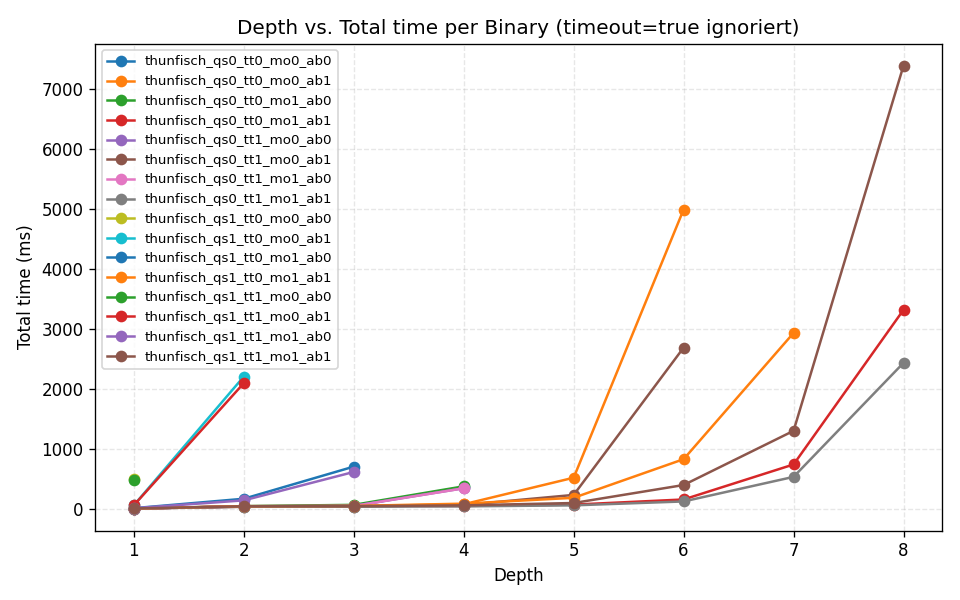
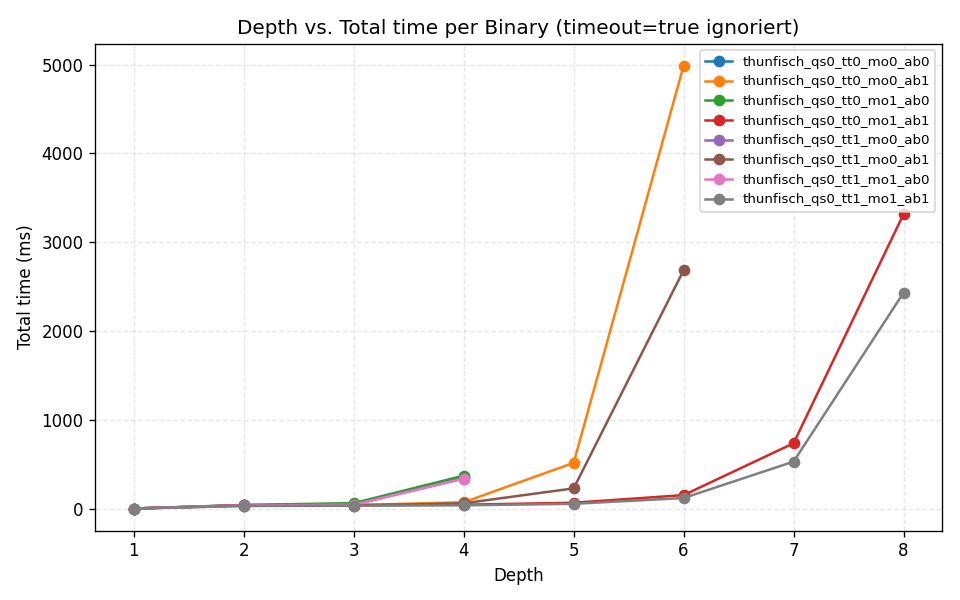
added plotly plotter

diff --git a/python-debugging/plot_depth_time.html b/python-debugging/plot_depth_time.html
@@ -1,0 +1,7 @@
+<html>
+<head><meta charset="utf-8" /></head>
+<body>
+    <div>                        <script type="text/javascript">window.PlotlyConfig = {MathJaxConfig: 'local'};</script>
+        <script charset="utf-8" src="https://cdn.plot.ly/plotly-3.1.1.min.js" integrity="sha256-HUEFyfiTnZJxCxur99FjbKYTvKSzwDaD3/x5TqHpFu4=" crossorigin="anonymous"></script>                <div id="6c96f560-fa58-4c0f-a3f3-13fef1c8d512" class="plotly-graph-div" style="height:450px; width:100%;"></div>            <script type="text/javascript">                window.PLOTLYENV=window.PLOTLYENV || {};                                if (document.getElementById("6c96f560-fa58-4c0f-a3f3-13fef1c8d512")) {                    Plotly.newPlot(                        "6c96f560-fa58-4c0f-a3f3-13fef1c8d512",                        [{"hovertemplate":"depth=%{x}\u003cbr\u003etime=%{y} ms\u003cextra\u003ethunfisch_qs0_tt0_mo0_ab0\u003c\u002fextra\u003e","line":{"width":2},"marker":{"size":6},"mode":"lines+markers","name":"thunfisch_qs0_tt0_mo0_ab0","x":[1,2,3,4],"y":[0,36,43,358],"type":"scatter"},{"hovertemplate":"depth=%{x}\u003cbr\u003etime=%{y} ms\u003cextra\u003ethunfisch_qs0_tt0_mo0_ab1\u003c\u002fextra\u003e","line":{"width":2},"marker":{"size":6},"mode":"lines+markers","name":"thunfisch_qs0_tt0_mo0_ab1","x":[1,2,3,4,5,6],"y":[0,35,38,71,514,4988],"type":"scatter"},{"hovertemplate":"depth=%{x}\u003cbr\u003etime=%{y} ms\u003cextra\u003ethunfisch_qs0_tt0_mo1_ab0\u003c\u002fextra\u003e","line":{"width":2},"marker":{"size":6},"mode":"lines+markers","name":"thunfisch_qs0_tt0_mo1_ab0","x":[1,2,3,4],"y":[0,40,61,370],"type":"scatter"},{"hovertemplate":"depth=%{x}\u003cbr\u003etime=%{y} ms\u003cextra\u003ethunfisch_qs0_tt0_mo1_ab1\u003c\u002fextra\u003e","line":{"width":2},"marker":{"size":6},"mode":"lines+markers","name":"thunfisch_qs0_tt0_mo1_ab1","x":[1,2,3,4,5,6,7,8],"y":[0,39,40,43,65,151,735,3315],"type":"scatter"},{"hovertemplate":"depth=%{x}\u003cbr\u003etime=%{y} ms\u003cextra\u003ethunfisch_qs0_tt1_mo0_ab0\u003c\u002fextra\u003e","line":{"width":2},"marker":{"size":6},"mode":"lines+markers","name":"thunfisch_qs0_tt1_mo0_ab0","x":[1,2,3,4],"y":[0,37,45,338],"type":"scatter"},{"hovertemplate":"depth=%{x}\u003cbr\u003etime=%{y} ms\u003cextra\u003ethunfisch_qs0_tt1_mo0_ab1\u003c\u002fextra\u003e","line":{"width":2},"marker":{"size":6},"mode":"lines+markers","name":"thunfisch_qs0_tt1_mo0_ab1","x":[1,2,3,4,5,6],"y":[0,29,31,59,227,2684],"type":"scatter"},{"hovertemplate":"depth=%{x}\u003cbr\u003etime=%{y} ms\u003cextra\u003ethunfisch_qs0_tt1_mo1_ab0\u003c\u002fextra\u003e","line":{"width":2},"marker":{"size":6},"mode":"lines+markers","name":"thunfisch_qs0_tt1_mo1_ab0","x":[1,2,3,4],"y":[0,34,42,338],"type":"scatter"},{"hovertemplate":"depth=%{x}\u003cbr\u003etime=%{y} ms\u003cextra\u003ethunfisch_qs0_tt1_mo1_ab1\u003c\u002fextra\u003e","line":{"width":2},"marker":{"size":6},"mode":"lines+markers","name":"thunfisch_qs0_tt1_mo1_ab1","x":[1,2,3,4,5,6,7,8],"y":[0,31,32,36,53,118,528,2430],"type":"scatter"}],                        {"template":{"data":{"barpolar":[{"marker":{"line":{"color":"white","width":0.5},"pattern":{"fillmode":"overlay","size":10,"solidity":0.2}},"type":"barpolar"}],"bar":[{"error_x":{"color":"#2a3f5f"},"error_y":{"color":"#2a3f5f"},"marker":{"line":{"color":"white","width":0.5},"pattern":{"fillmode":"overlay","size":10,"solidity":0.2}},"type":"bar"}],"carpet":[{"aaxis":{"endlinecolor":"#2a3f5f","gridcolor":"#C8D4E3","linecolor":"#C8D4E3","minorgridcolor":"#C8D4E3","startlinecolor":"#2a3f5f"},"baxis":{"endlinecolor":"#2a3f5f","gridcolor":"#C8D4E3","linecolor":"#C8D4E3","minorgridcolor":"#C8D4E3","startlinecolor":"#2a3f5f"},"type":"carpet"}],"choropleth":[{"colorbar":{"outlinewidth":0,"ticks":""},"type":"choropleth"}],"contourcarpet":[{"colorbar":{"outlinewidth":0,"ticks":""},"type":"contourcarpet"}],"contour":[{"colorbar":{"outlinewidth":0,"ticks":""},"colorscale":[[0.0,"#0d0887"],[0.1111111111111111,"#46039f"],[0.2222222222222222,"#7201a8"],[0.3333333333333333,"#9c179e"],[0.4444444444444444,"#bd3786"],[0.5555555555555556,"#d8576b"],[0.6666666666666666,"#ed7953"],[0.7777777777777778,"#fb9f3a"],[0.8888888888888888,"#fdca26"],[1.0,"#f0f921"]],"type":"contour"}],"heatmap":[{"colorbar":{"outlinewidth":0,"ticks":""},"colorscale":[[0.0,"#0d0887"],[0.1111111111111111,"#46039f"],[0.2222222222222222,"#7201a8"],[0.3333333333333333,"#9c179e"],[0.4444444444444444,"#bd3786"],[0.5555555555555556,"#d8576b"],[0.6666666666666666,"#ed7953"],[0.7777777777777778,"#fb9f3a"],[0.8888888888888888,"#fdca26"],[1.0,"#f0f921"]],"type":"heatmap"}],"histogram2dcontour":[{"colorbar":{"outlinewidth":0,"ticks":""},"colorscale":[[0.0,"#0d0887"],[0.1111111111111111,"#46039f"],[0.2222222222222222,"#7201a8"],[0.3333333333333333,"#9c179e"],[0.4444444444444444,"#bd3786"],[0.5555555555555556,"#d8576b"],[0.6666666666666666,"#ed7953"],[0.7777777777777778,"#fb9f3a"],[0.8888888888888888,"#fdca26"],[1.0,"#f0f921"]],"type":"histogram2dcontour"}],"histogram2d":[{"colorbar":{"outlinewidth":0,"ticks":""},"colorscale":[[0.0,"#0d0887"],[0.1111111111111111,"#46039f"],[0.2222222222222222,"#7201a8"],[0.3333333333333333,"#9c179e"],[0.4444444444444444,"#bd3786"],[0.5555555555555556,"#d8576b"],[0.6666666666666666,"#ed7953"],[0.7777777777777778,"#fb9f3a"],[0.8888888888888888,"#fdca26"],[1.0,"#f0f921"]],"type":"histogram2d"}],"histogram":[{"marker":{"pattern":{"fillmode":"overlay","size":10,"solidity":0.2}},"type":"histogram"}],"mesh3d":[{"colorbar":{"outlinewidth":0,"ticks":""},"type":"mesh3d"}],"parcoords":[{"line":{"colorbar":{"outlinewidth":0,"ticks":""}},"type":"parcoords"}],"pie":[{"automargin":true,"type":"pie"}],"scatter3d":[{"line":{"colorbar":{"outlinewidth":0,"ticks":""}},"marker":{"colorbar":{"outlinewidth":0,"ticks":""}},"type":"scatter3d"}],"scattercarpet":[{"marker":{"colorbar":{"outlinewidth":0,"ticks":""}},"type":"scattercarpet"}],"scattergeo":[{"marker":{"colorbar":{"outlinewidth":0,"ticks":""}},"type":"scattergeo"}],"scattergl":[{"marker":{"colorbar":{"outlinewidth":0,"ticks":""}},"type":"scattergl"}],"scattermapbox":[{"marker":{"colorbar":{"outlinewidth":0,"ticks":""}},"type":"scattermapbox"}],"scattermap":[{"marker":{"colorbar":{"outlinewidth":0,"ticks":""}},"type":"scattermap"}],"scatterpolargl":[{"marker":{"colorbar":{"outlinewidth":0,"ticks":""}},"type":"scatterpolargl"}],"scatterpolar":[{"marker":{"colorbar":{"outlinewidth":0,"ticks":""}},"type":"scatterpolar"}],"scatter":[{"fillpattern":{"fillmode":"overlay","size":10,"solidity":0.2},"type":"scatter"}],"scatterternary":[{"marker":{"colorbar":{"outlinewidth":0,"ticks":""}},"type":"scatterternary"}],"surface":[{"colorbar":{"outlinewidth":0,"ticks":""},"colorscale":[[0.0,"#0d0887"],[0.1111111111111111,"#46039f"],[0.2222222222222222,"#7201a8"],[0.3333333333333333,"#9c179e"],[0.4444444444444444,"#bd3786"],[0.5555555555555556,"#d8576b"],[0.6666666666666666,"#ed7953"],[0.7777777777777778,"#fb9f3a"],[0.8888888888888888,"#fdca26"],[1.0,"#f0f921"]],"type":"surface"}],"table":[{"cells":{"fill":{"color":"#EBF0F8"},"line":{"color":"white"}},"header":{"fill":{"color":"#C8D4E3"},"line":{"color":"white"}},"type":"table"}]},"layout":{"annotationdefaults":{"arrowcolor":"#2a3f5f","arrowhead":0,"arrowwidth":1},"autotypenumbers":"strict","coloraxis":{"colorbar":{"outlinewidth":0,"ticks":""}},"colorscale":{"diverging":[[0,"#8e0152"],[0.1,"#c51b7d"],[0.2,"#de77ae"],[0.3,"#f1b6da"],[0.4,"#fde0ef"],[0.5,"#f7f7f7"],[0.6,"#e6f5d0"],[0.7,"#b8e186"],[0.8,"#7fbc41"],[0.9,"#4d9221"],[1,"#276419"]],"sequential":[[0.0,"#0d0887"],[0.1111111111111111,"#46039f"],[0.2222222222222222,"#7201a8"],[0.3333333333333333,"#9c179e"],[0.4444444444444444,"#bd3786"],[0.5555555555555556,"#d8576b"],[0.6666666666666666,"#ed7953"],[0.7777777777777778,"#fb9f3a"],[0.8888888888888888,"#fdca26"],[1.0,"#f0f921"]],"sequentialminus":[[0.0,"#0d0887"],[0.1111111111111111,"#46039f"],[0.2222222222222222,"#7201a8"],[0.3333333333333333,"#9c179e"],[0.4444444444444444,"#bd3786"],[0.5555555555555556,"#d8576b"],[0.6666666666666666,"#ed7953"],[0.7777777777777778,"#fb9f3a"],[0.8888888888888888,"#fdca26"],[1.0,"#f0f921"]]},"colorway":["#636efa","#EF553B","#00cc96","#ab63fa","#FFA15A","#19d3f3","#FF6692","#B6E880","#FF97FF","#FECB52"],"font":{"color":"#2a3f5f"},"geo":{"bgcolor":"white","lakecolor":"white","landcolor":"white","showlakes":true,"showland":true,"subunitcolor":"#C8D4E3"},"hoverlabel":{"align":"left"},"hovermode":"closest","mapbox":{"style":"light"},"paper_bgcolor":"white","plot_bgcolor":"white","polar":{"angularaxis":{"gridcolor":"#EBF0F8","linecolor":"#EBF0F8","ticks":""},"bgcolor":"white","radialaxis":{"gridcolor":"#EBF0F8","linecolor":"#EBF0F8","ticks":""}},"scene":{"xaxis":{"backgroundcolor":"white","gridcolor":"#DFE8F3","gridwidth":2,"linecolor":"#EBF0F8","showbackground":true,"ticks":"","zerolinecolor":"#EBF0F8"},"yaxis":{"backgroundcolor":"white","gridcolor":"#DFE8F3","gridwidth":2,"linecolor":"#EBF0F8","showbackground":true,"ticks":"","zerolinecolor":"#EBF0F8"},"zaxis":{"backgroundcolor":"white","gridcolor":"#DFE8F3","gridwidth":2,"linecolor":"#EBF0F8","showbackground":true,"ticks":"","zerolinecolor":"#EBF0F8"}},"shapedefaults":{"line":{"color":"#2a3f5f"}},"ternary":{"aaxis":{"gridcolor":"#DFE8F3","linecolor":"#A2B1C6","ticks":""},"baxis":{"gridcolor":"#DFE8F3","linecolor":"#A2B1C6","ticks":""},"bgcolor":"white","caxis":{"gridcolor":"#DFE8F3","linecolor":"#A2B1C6","ticks":""}},"title":{"x":0.05},"xaxis":{"automargin":true,"gridcolor":"#EBF0F8","linecolor":"#EBF0F8","ticks":"","title":{"standoff":15},"zerolinecolor":"#EBF0F8","zerolinewidth":2},"yaxis":{"automargin":true,"gridcolor":"#EBF0F8","linecolor":"#EBF0F8","ticks":"","title":{"standoff":15},"zerolinecolor":"#EBF0F8","zerolinewidth":2}}},"xaxis":{"anchor":"y","domain":[0.0,1.0],"title":{"text":"Depth"},"showgrid":true,"gridwidth":1,"gridcolor":"rgba(0,0,0,0.1)"},"yaxis":{"anchor":"x","domain":[0.0,1.0],"title":{"text":"Total time (ms)"},"showgrid":true,"gridwidth":1,"gridcolor":"rgba(0,0,0,0.1)"},"legend":{"font":{"size":10}},"margin":{"l":50,"r":20,"t":60,"b":50},"title":{"text":"Depth vs. Total time per Binary (timeout=true ignoriert)"},"height":450},                        {"responsive": true}                    )                };            </script>        </div>
+</body>
+</html>

diff --git a/python-debugging/build-plotly.py b/python-debugging/build-plotly.py
@@ -1,0 +1,132 @@
+#!/usr/bin/env python3
+import re
+from collections import OrderedDict
+from pathlib import Path
+
+import plotly.graph_objects as go
+from plotly.subplots import make_subplots
+
+LOG_DIR = Path("./plot_logs")
+OUT_PNG = Path("./plot_depth_time.png")
+OUT_HTML = Path("./plot_depth_time.html")
+OUT_MD = Path("./plot_depth_time_table.md")
+
+INFO_RE = re.compile(
+    r"\bdepth\s+(\d+)\b.*?\btimeout\s+(true|false)\b.*?\btotal_time\s+(\d+)\b",
+    re.IGNORECASE,
+)
+
+
+def parse_log(path: Path):
+    # Liefert OrderedDict{depth -> total_time_ms} (letzte gültige info je depth gewinnt)
+    depth_time = OrderedDict()
+    with path.open("r", encoding="utf-8", errors="replace") as f:
+        for line in f:
+            m = INFO_RE.search(line)
+            if not m:
+                continue
+            depth = int(m.group(1))
+            timeout_flag = m.group(2).lower() == "true"
+            total_time_ms = int(m.group(3))
+            if timeout_flag:
+                continue
+            depth_time[depth] = total_time_ms
+    return depth_time
+
+
+def build_markdown_pivot(series: dict) -> str:
+    # series: {name -> {depth: time_ms}}
+    names = sorted(series.keys())
+    all_depths = sorted({d for dt in series.values() for d in dt.keys()})
+
+    # Header
+    header = ["Bot"] + [str(d) for d in all_depths]
+    md_lines = []
+    md_lines.append("| " + " | ".join(header) + " |")
+    md_lines.append("| " + " | ".join(["---"] * len(header)) + " |")
+
+    # Rows
+    for name in names:
+        row = [name]
+        for d in all_depths:
+            val = series[name].get(d)
+            row.append(str(val) if val is not None else "–")
+        md_lines.append("| " + " | ".join(row) + " |")
+
+    return "\n".join(md_lines)
+
+
+def main():
+    logs = sorted(LOG_DIR.glob("*.log"))
+    if not logs:
+        print(f"Keine .log Dateien in {LOG_DIR} gefunden.")
+        return
+
+    series = {}  # name -> {depth: total_time_ms}
+    for log in logs:
+        data = parse_log(log)
+        if not data:
+            continue
+        name = log.stem
+        series[name] = data
+
+    if not series:
+        print("Keine verwertbaren info-Zeilen gefunden.")
+        return
+
+    # Plotly-Figur (nur Plot oben)
+    fig = make_subplots(rows=1, cols=1)
+
+    for name, dt in sorted(series.items()):
+        depths = sorted(dt.keys())
+        times = [dt[d] for d in depths]
+        fig.add_trace(
+            go.Scatter(
+                x=depths,
+                y=times,
+                mode="lines+markers",
+                name=name,
+                line=dict(width=2),
+                marker=dict(size=6),
+                hovertemplate="depth=%{x}<br>time=%{y} ms<extra>" + name + "</extra>",
+            )
+        )
+
+    fig.update_layout(
+        title="Depth vs. Total time per Binary (timeout=true ignoriert)",
+        xaxis_title="Depth",
+        yaxis_title="Total time (ms)",
+        template="plotly_white",
+        legend=dict(font=dict(size=10)),
+        margin=dict(l=50, r=20, t=60, b=50),
+        height=450,
+    )
+    fig.update_xaxes(showgrid=True, gridwidth=1, gridcolor="rgba(0,0,0,0.1)")
+    fig.update_yaxes(showgrid=True, gridwidth=1, gridcolor="rgba(0,0,0,0.1)")
+
+    # Dateien speichern
+    OUT_PNG.parent.mkdir(parents=True, exist_ok=True)
+    try:
+        # PNG-Export benötigt: pip install -U kaleido
+        fig.write_image(str(OUT_PNG), scale=2)
+        print(f"PNG gespeichert: {OUT_PNG}")
+    except Exception as e:
+        print(f"PNG-Export übersprungen (kaleido fehlt?): {e}")
+
+    fig.write_html(str(OUT_HTML), include_plotlyjs="cdn", full_html=True)
+    print(f"HTML gespeichert: {OUT_HTML}")
+
+    # Markdown-Pivot erzeugen
+    md = build_markdown_pivot(series)
+    OUT_MD.write_text(md, encoding="utf-8")
+    print(f"Markdown-Tabelle gespeichert: {OUT_MD}\n")
+    print(md)
+
+    try:
+        fig.show()
+    except Exception:
+        pass
+
+
+if __name__ == "__main__":
+    main()

diff --git a/python-debugging/plot_depth_time_table.md b/python-debugging/plot_depth_time_table.md
@@ -1,0 +1,10 @@
+| Bot | 1 | 2 | 3 | 4 | 5 | 6 | 7 | 8 |
+| --- | --- | --- | --- | --- | --- | --- | --- | --- |
+| thunfisch_qs0_tt0_mo0_ab0 | 0 | 36 | 43 | 358 | – | – | – | – |
+| thunfisch_qs0_tt0_mo0_ab1 | 0 | 35 | 38 | 71 | 514 | 4988 | – | – |
+| thunfisch_qs0_tt0_mo1_ab0 | 0 | 40 | 61 | 370 | – | – | – | – |
+| thunfisch_qs0_tt0_mo1_ab1 | 0 | 39 | 40 | 43 | 65 | 151 | 735 | 3315 |
+| thunfisch_qs0_tt1_mo0_ab0 | 0 | 37 | 45 | 338 | – | – | – | – |
+| thunfisch_qs0_tt1_mo0_ab1 | 0 | 29 | 31 | 59 | 227 | 2684 | – | – |
+| thunfisch_qs0_tt1_mo1_ab0 | 0 | 34 | 42 | 338 | – | – | – | – |
+| thunfisch_qs0_tt1_mo1_ab1 | 0 | 31 | 32 | 36 | 53 | 118 | 528 | 2430 |
